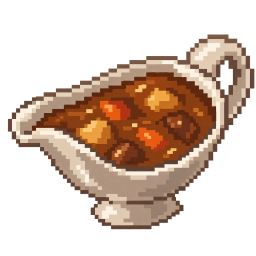
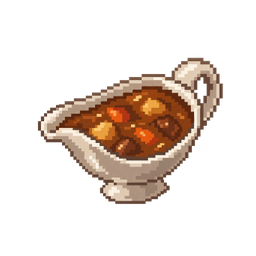
Add files via upload

diff --git a/clock.html b/clock.html
@@ -63,7 +63,7 @@ button{border:1px solid var(--border);color:var(--warm);background:rgba(255,255,
 @keyframes ftShake{0%,100%{transform:none}25%{transform:translateX(-5px)}75%{transform:translateX(5px)}}
 .question-no{display:inline-flex;width:34px;height:34px;align-items:center;justify-content:center;border-radius:50%;background:rgba(217,196,142,.16);color:var(--gold);font-weight:800}
 .ft-scene{display:flex;align-items:center;justify-content:center;gap:1.4rem;flex-wrap:wrap;margin:.2rem auto .8rem}
-.ft-place{text-align:center}.ft-pic{width:200px;height:180px;margin:0 auto .3rem;background:#F4F1EA;border-radius:16px;overflow:hidden;display:flex;align-items:center;justify-content:center}.ft-pic img{width:100%;height:100%;object-fit:contain;image-rendering:pixelated;transform:scale(1.2)}
+.ft-place{text-align:center}/* pictures: square, never cropped, 64/128/192 px only */.ft-pic{width:192px;height:192px;margin:0 auto .3rem;background:#F4F1EA;border-radius:16px;display:flex;align-items:center;justify-content:center}.ft-pic img{width:100%;height:100%;object-fit:contain;image-rendering:auto}
 .ft-place .jp{font-family:"Zen Kaku Gothic New";font-size:1.5rem;font-weight:700;color:var(--gold)}
 .ft-clocks{display:flex;align-items:center;gap:.8rem}
 .ft-clock{text-align:center}.ft-clock .clock{width:140px;display:block;margin:0 auto}
@@ -85,7 +85,7 @@ button{border:1px solid var(--border);color:var(--warm);background:rgba(255,255,
 .fromto-question .type-answer{max-width:640px;display:block;margin:.4rem auto;font-family:"Zen Kaku Gothic New";text-align:center}
 .ft-write{max-width:760px;display:block;margin:.4rem auto;height:150px}
 .muted{display:block;color:var(--muted);font-size:.95rem}
-@media(max-width:620px){.ft-pic{width:150px;height:135px}.ft-clock .clock{width:100px}.ft-arrow{font-size:1.3rem}.cb-card{min-width:64px;min-height:50px;font-size:1.05rem;padding:.5rem .7rem}.ft-fill{font-size:1.05rem}}
+@media(max-width:620px){.ft-pic{width:128px;height:128px}.ft-clock .clock{width:100px}.ft-arrow{font-size:1.3rem}.cb-card{min-width:64px;min-height:50px;font-size:1.05rem;padding:.5rem .7rem}.ft-fill{font-size:1.05rem}}
 
 .done-btn{position:fixed;right:14px;bottom:14px;z-index:40;min-height:54px;padding:10px 18px;border-radius:999px;background:#D9C48E;color:#14162e;font-weight:800;box-shadow:0 8px 24px rgba(0,0,0,.35);border:0}
 .done-count{font-size:.8em;opacity:.75;margin-left:4px}
@@ -120,7 +120,7 @@ button{border:1px solid var(--border);color:var(--warm);background:rgba(255,255,
 .mall-stage{min-width:0}
 .mall-progress{margin-top:10px;color:var(--muted);font-weight:700}
 .mall-task{display:flex;gap:14px;align-items:center;background:rgba(217,196,142,.1);border:1px solid var(--border);border-radius:16px;padding:12px 14px;margin-bottom:12px}
-.mall-emoji{font-size:44px}.mall-emoji .shop-ic{width:120px;height:120px;transform:scale(1.15)}.shop-ic{width:44px;height:44px;vertical-align:middle;image-rendering:pixelated;object-fit:contain}.mf-icons .shop-ic{width:32px;height:32px}@media(max-width:620px){.mall-emoji .shop-ic{width:90px;height:90px}}.mall-task-en{font-size:1.05rem}.mall-task-jp{font-family:"Zen Kaku Gothic New";font-size:1.5rem;color:var(--gold);font-weight:700}
+.mall-emoji{font-size:44px}.mall-emoji .shop-ic{width:128px;height:128px}.shop-ic{width:64px;height:64px;vertical-align:middle;image-rendering:auto;object-fit:contain}.mf-icons .shop-ic{width:32px;height:32px}.mall-task-en{font-size:1.05rem}.mall-task-jp{font-family:"Zen Kaku Gothic New";font-size:1.5rem;color:var(--gold);font-weight:700}
 .mall-bubble{display:flex;gap:10px;align-items:baseline;margin:8px 0;padding:10px 12px;border-radius:14px;background:rgba(255,255,255,.05)}
 .mall-bubble.staff{background:rgba(182,169,218,.14)}.mall-bubble.me{background:rgba(217,196,142,.12)}
 .mall-who{flex:0 0 auto;font-size:.85rem;color:var(--muted);font-weight:700}.mall-say{font-family:"Zen Kaku Gothic New";font-size:1.25rem;line-height:1.9}
@@ -204,7 +204,7 @@ button{border:1px solid var(--border);color:var(--warm);background:rgba(255,255,
   .set-box .feedback{min-height:30px;margin-top:2px}
   .set-box .actions{gap:7px}
   .set-box .actions button{min-height:44px;padding:7px 11px}
-  .mascot{transform:scale(.78);transform-origin:center top;margin-top:-2px!important;margin-bottom:-12px!important}
+  .mascot{margin-top:-2px!important}
   .done-btn{min-height:48px;right:8px;bottom:8px;padding:8px 13px;font-size:13px}
 }
 @media(max-width:390px){

diff --git a/tools/hiragana-lesson.html b/tools/hiragana-lesson.html
@@ -55,8 +55,8 @@ button{font:inherit;cursor:pointer}
 .wcard{display:grid;grid-template-columns:76px 1fr auto;align-items:center;gap:12px;border:2px solid var(--line);border-radius:18px;background:#fff;padding:8px 14px;text-align:left}
 .wcard:hover{border-color:var(--lav)}
 .wcard .em{font-size:48px;text-align:center}
-.wcard .lex{width:64px;height:64px;image-rendering:pixelated;display:block;margin:auto}
-.q-pic .lex{width:min(40vw,200px);height:min(40vw,200px);image-rendering:pixelated}
+/* pictures: square, never cropped, 64/128/192 px only (same on phone and computer) */.wcard .lex{width:64px;height:64px;object-fit:contain;display:block;margin:auto}
+.q-pic .lex{width:192px;height:192px;object-fit:contain}
 .wcard .em.noimg{font-size:15px;color:var(--muted);font-weight:700}
 .wcard .w{font-size:clamp(34px,3.6vw,46px);font-weight:700}
 .wcard .w b{color:#d1495b}
@@ -92,7 +92,7 @@ button{font:inherit;cursor:pointer}
 .shelf{display:flex;justify-content:center;flex-wrap:wrap;gap:12px;margin:14px auto;max-width:900px}
 .item{border:2px solid var(--line);border-radius:18px;background:#fff;padding:8px 12px;min-width:120px;display:flex;flex-direction:column;align-items:center;gap:2px}
 .item:hover{border-color:var(--lav);background:var(--lavbg)}
-.item img{width:84px;height:84px;image-rendering:pixelated}
+.item img{width:64px;height:64px;object-fit:contain}
 .item .w{font-size:28px;font-weight:700}.item .m{color:var(--muted);font-size:14px;font-weight:700}
 .phr{display:grid;grid-template-columns:repeat(2,minmax(0,1fr));gap:12px;max-width:960px;margin:10px auto}
 .pcard{border:2px solid var(--line);border-radius:18px;background:#fff;padding:12px 16px;text-align:left;display:flex;align-items:center;gap:12px}
@@ -105,7 +105,7 @@ button{font:inherit;cursor:pointer}
 .line.c .bub{background:var(--lavbg);border-color:var(--lav)}
 .line .who{font-size:38px}
 .pics{display:flex;flex-wrap:wrap;justify-content:center;gap:4px;max-width:360px;margin:6px auto}
-.pics img{width:64px;height:64px;image-rendering:pixelated}
+.pics img{width:64px;height:64px;object-fit:contain}
 .sent{display:flex;justify-content:center;align-items:center;flex-wrap:wrap;gap:8px;font-size:clamp(30px,3.4vw,42px);font-weight:700;margin:12px 0}
 .slot{min-width:150px;border-bottom:4px solid var(--lav);text-align:center;padding:0 8px;color:var(--lav)}
 .slot.ok{color:var(--good);border-color:var(--good)}
@@ -114,7 +114,7 @@ button{font:inherit;cursor:pointer}
 .tile:disabled{color:var(--ink);cursor:default}.tile.no{background:var(--badbg);border-color:var(--bad);opacity:.6}.tile.ok{background:var(--goodbg);border-color:var(--good)}
 .tlabel{font-weight:800;color:var(--gold);font-size:14px;text-align:center;margin-top:8px}
 .basket{min-height:96px;border:3px dashed var(--line);border-radius:22px;max-width:720px;margin:10px auto;padding:8px;display:flex;flex-wrap:wrap;justify-content:center;align-items:center;gap:4px;background:#fffdf8}
-.basket img{width:56px;height:56px;image-rendering:pixelated}
+.basket img{width:64px;height:64px;object-fit:contain}
 .basket .empty{color:var(--muted);font-weight:700}
 .reveal{color:var(--muted);font-size:clamp(24px,2.6vw,30px);font-weight:700;min-height:1.4em}
 .srow .big-btn{border:none;background:var(--lav);color:#fff;padding:12px 24px;font-size:19px;font-weight:800}

diff --git a/chinese-vocab.html b/chinese-vocab.html
@@ -234,10 +234,10 @@ body{
 .embedded .top>div:first-child{display:none}.embedded .top{min-height:0;padding-top:4px;padding-bottom:4px}.embedded .top:not(:has(.hud>:not(.hidden))){display:none}
 
 .learncard{text-align:center;padding:10px 0}.learncard .big{font-size:56px;font-weight:800;line-height:1.2}.learncard .lpy{font-size:22px;color:#6d7489;margin:4px 0}.learncard .len{font-size:20px;font-weight:700;margin:6px 0 12px}.saybox{text-align:center;margin-top:10px}
-.lpic{display:block;margin:0 auto 6px;width:140px;height:140px;image-rendering:pixelated;object-fit:contain}.lpic.swatch{border-radius:24px;border:3px solid #20243a}.lpic.emo{font-size:96px;line-height:140px;text-align:center}
-.qpic{width:150px;height:150px;image-rendering:pixelated;object-fit:contain;display:inline-block}.qpic.swatch{border-radius:24px;border:3px solid #20243a}.qpic.emo{font-size:100px;line-height:150px}
+/* pictures: square, never cropped, 64/128/192 px only */.lpic{display:block;margin:0 auto 6px;width:128px;height:128px;image-rendering:auto;object-fit:contain}.lpic.swatch{border-radius:24px;border:3px solid #20243a}.lpic.emo{font-size:96px;line-height:128px;text-align:center}
+.qpic{width:128px;height:128px;image-rendering:auto;object-fit:contain;display:inline-block}.qpic.swatch{border-radius:24px;border:3px solid #20243a}.qpic.emo{font-size:100px;line-height:128px}
 .picans{display:grid;grid-template-columns:1fr 1fr;gap:10px;margin-top:10px}.picans .ans{min-height:120px;display:flex;align-items:center;justify-content:center;padding:8px}
-.opic{width:96px;height:96px;image-rendering:pixelated;object-fit:contain}.opic.swatch{display:inline-block;border-radius:18px;border:3px solid #20243a}.opic.emo{font-size:64px;line-height:96px}
+.opic{width:64px;height:64px;image-rendering:auto;object-fit:contain}.opic.swatch{display:inline-block;border-radius:18px;border:3px solid #20243a}.opic.emo{font-size:56px;line-height:64px}
 .lowgrid{grid-template-columns:repeat(auto-fill,minmax(150px,1fr))!important}.pick.low{min-height:auto;padding:12px 8px}
 </style><script defer src="assets/zh-report.js"></script></head>
 <body>

diff --git a/vocab.html b/vocab.html
@@ -41,7 +41,7 @@ button.active{background:rgba(217,196,142,.17);border-color:rgba(217,196,142,.78
 .pic.big{min-height:150px;margin:6px auto;max-width:260px;background:#F4F1EA;color:#17192d;border-radius:18px;padding:10px}
 .opt.picopt .pic,.match-item .pic{background:#F4F1EA;color:#17192d;border-radius:12px;min-height:84px;padding:6px}.pic.big .emoji{font-size:110px;line-height:1}
 .pic .emoji{font-size:54px;line-height:1}
-.lex-img{width:72px;height:72px;image-rendering:pixelated;object-fit:contain}.pic.big .lex-img{width:150px;height:150px}.match-item .lex-img{width:60px;height:60px}
+/* pictures: square, never cropped, 64/128/192 px only (same on phone and computer) */.lex-img{width:64px;height:64px;aspect-ratio:1;object-fit:contain;image-rendering:auto}.pic.big .lex-img{width:192px;height:192px}.match-item .lex-img{width:64px;height:64px}
 .swatch{display:inline-block;width:64px;height:64px;border-radius:50%;border:3px solid rgba(255,255,255,.6)}.pic.big .swatch{width:120px;height:120px}
 .pic.meaning{flex-direction:column;background:#F4F1EA;color:#17192d;border-radius:14px;padding:10px 14px;min-height:74px}
 .pic.big.meaning{max-width:360px;min-height:130px}

diff --git a/mascot.css b/mascot.css
@@ -12,8 +12,8 @@
   text-align:left;
 }
 .mascot-pic{
-  flex:0 0 auto; width:112px; height:112px;
-  image-rendering:pixelated; object-fit:contain;
+  flex:0 0 auto; width:128px; height:128px;      /* 128 = half the picture size, so it stays sharp */
+  image-rendering:auto; object-fit:contain;
 }
 .mascot-say{
   min-width:0; font-weight:700; font-size:1.05rem; line-height:1.45;
@@ -25,11 +25,11 @@
 @media (prefers-reduced-motion: reduce){ .mascot.pop .mascot-pic{ animation:none } }
 @media (max-width:600px){
   .mascot{ gap:10px; padding:6px 12px 6px 6px; border-radius:16px; }
-  .mascot-pic{ width:96px; height:96px; }
+  .mascot-pic{ width:128px; height:128px; }   /* same size on phone and computer */
   .mascot-say{ font-size:.98rem; }
 }
 /* inside the cream report box it needs no second card */
 .report-box .mascot{ box-shadow:none; background:#fff; margin:6px auto 4px; }
 
-/* any pixel-art image stays crisp when scaled */
-img.pixel, .mascot img{ image-rendering:pixelated; }
+/* pixel art: "pixelated" only when shown BIGGER than the picture; shrinking with it drops lines */
+img.pixel{ image-rendering:pixelated; }

diff --git a/hiragana-homework.html b/hiragana-homework.html
@@ -35,7 +35,7 @@ h1{font-size:clamp(26px,5vw,36px);margin:10px 0 4px;text-align:center}
 .task small{display:block;font-size:16px;color:var(--muted);font-weight:600;margin-top:2px}
 .prog{height:10px;border-radius:999px;background:var(--line);overflow:hidden;margin:10px 0 14px}.prog i{display:block;height:100%;background:var(--lav);transition:width .2s}
 .pic{font-size:clamp(84px,22vw,130px);line-height:1.1;text-align:center}
-.pic .lex{width:min(44vw,180px);height:min(44vw,180px);image-rendering:pixelated}
+/* pictures: square, never cropped, 64/128/192 px only (same on phone and computer) */.pic .lex{width:192px;height:192px;object-fit:contain;image-rendering:auto}
 .pic.txt{font-size:26px;font-weight:800;color:var(--lav);padding:30px 0}
 .word{display:flex;justify-content:center;gap:6px;margin:8px 0 14px;flex-wrap:wrap}
 .word span{width:clamp(52px,13vw,72px);height:clamp(52px,13vw,72px);border:2px solid var(--line);border-radius:12px;display:flex;align-items:center;justify-content:center;font-size:clamp(32px,8vw,46px);font-weight:700;background:#fffdf8}

diff --git a/tools/random-picture-quiz.html b/tools/random-picture-quiz.html
@@ -46,7 +46,7 @@ input[type=file]{display:none}
 .big{font-size:clamp(84px,17vw,190px);line-height:1.05;font-weight:800;font-variant-numeric:tabular-nums;letter-spacing:.02em}
 .big.emoji{font-size:clamp(90px,18vw,200px)}
 .big.text{font-size:clamp(42px,8vw,96px)}
-.lex{width:min(46vw,300px);height:min(40vh,300px);image-rendering:pixelated;object-fit:contain}
+/* pictures: square, never cropped; 256 = the picture's real size, so it stays sharp */.lex{width:256px;height:256px;max-width:100%;aspect-ratio:1;image-rendering:pixelated;object-fit:contain}
 .swatch{width:min(46vw,260px);height:min(30vh,200px);border-radius:24px;border:1px solid #0002}
 .hint{font-size:clamp(22px,3.4vw,36px);font-weight:700;color:#555}
 .answer{margin-top:8px;font-family:"Noto Sans JP","Zen Kaku Gothic New",sans-serif;font-size:clamp(30px,5vw,58px);font-weight:700;color:var(--gold);min-height:1.3em}
